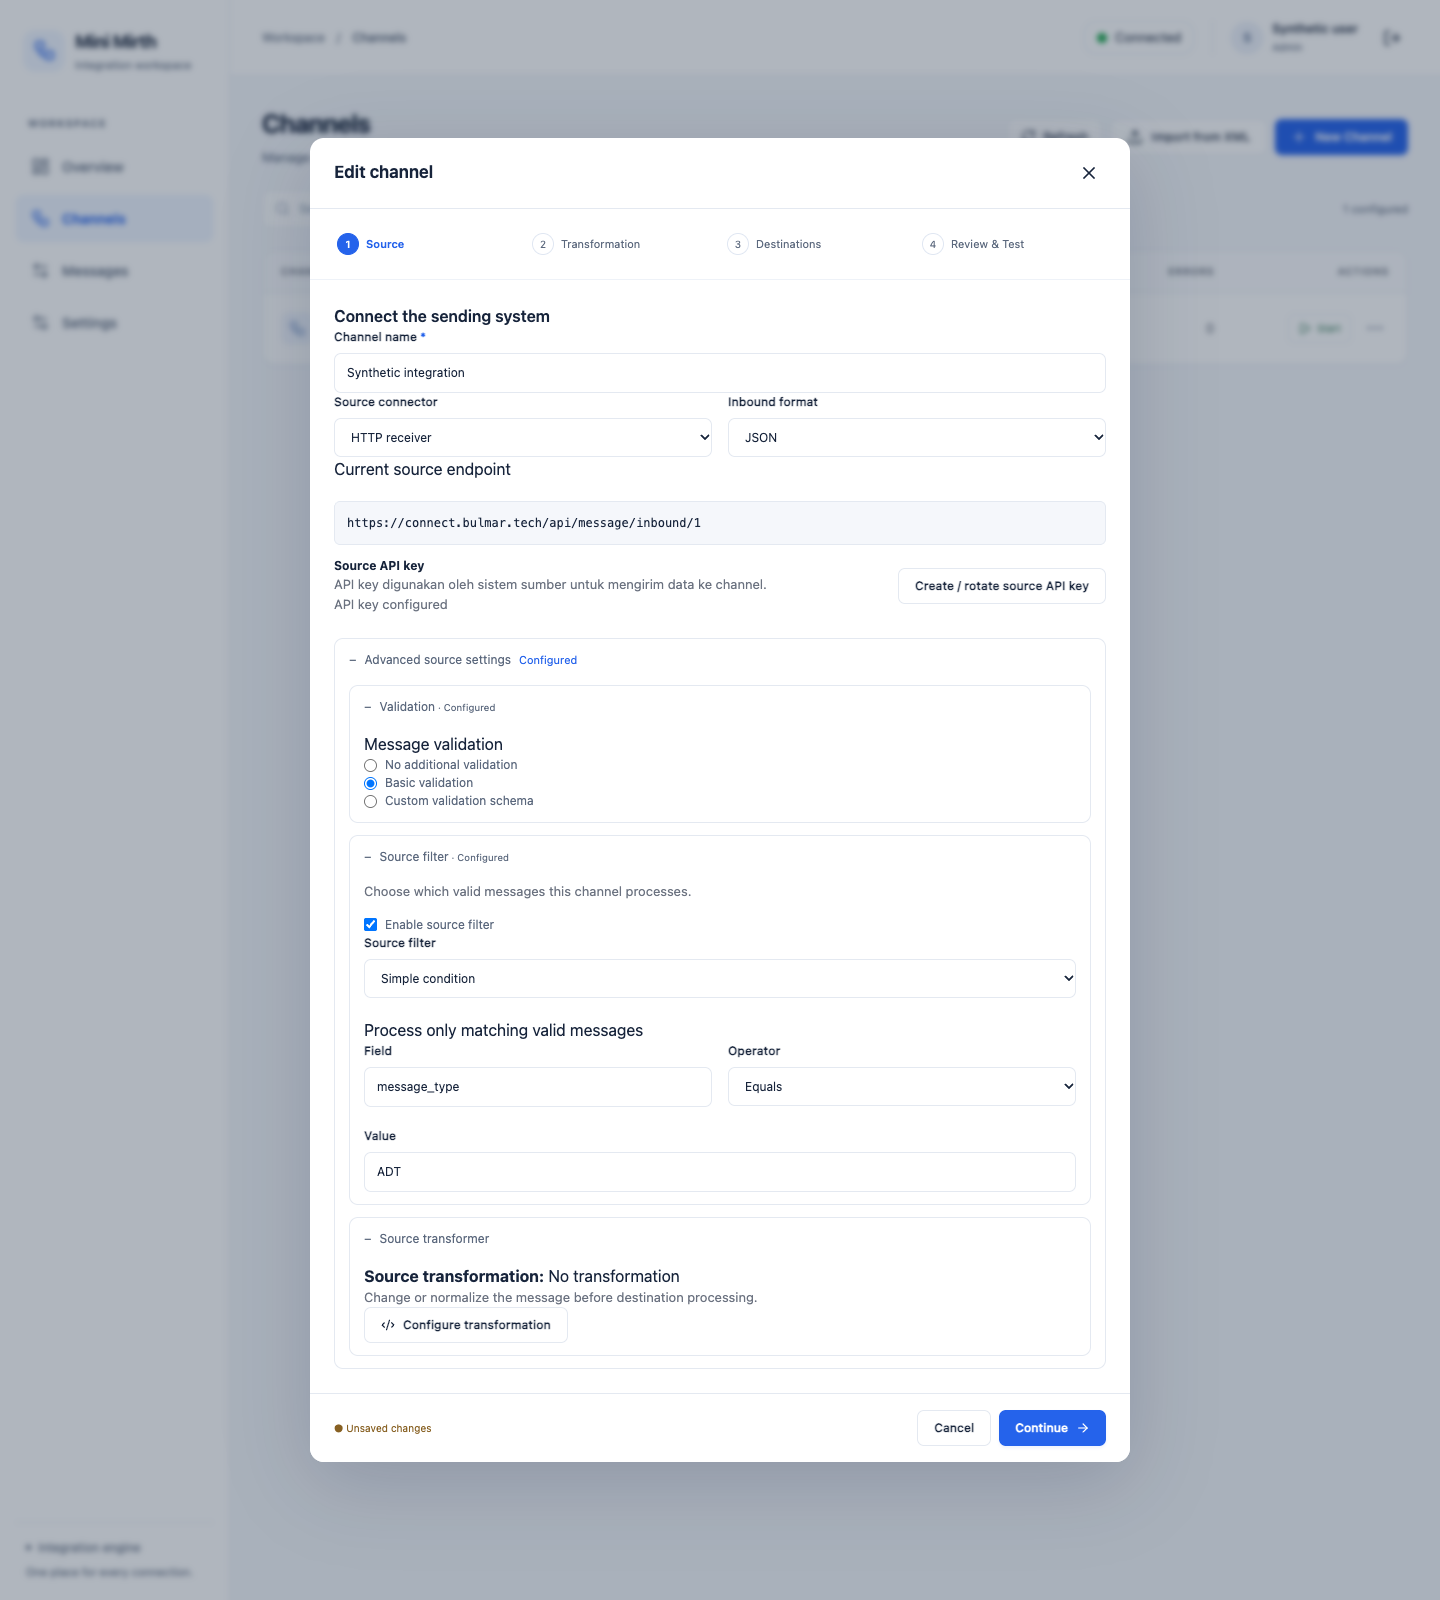
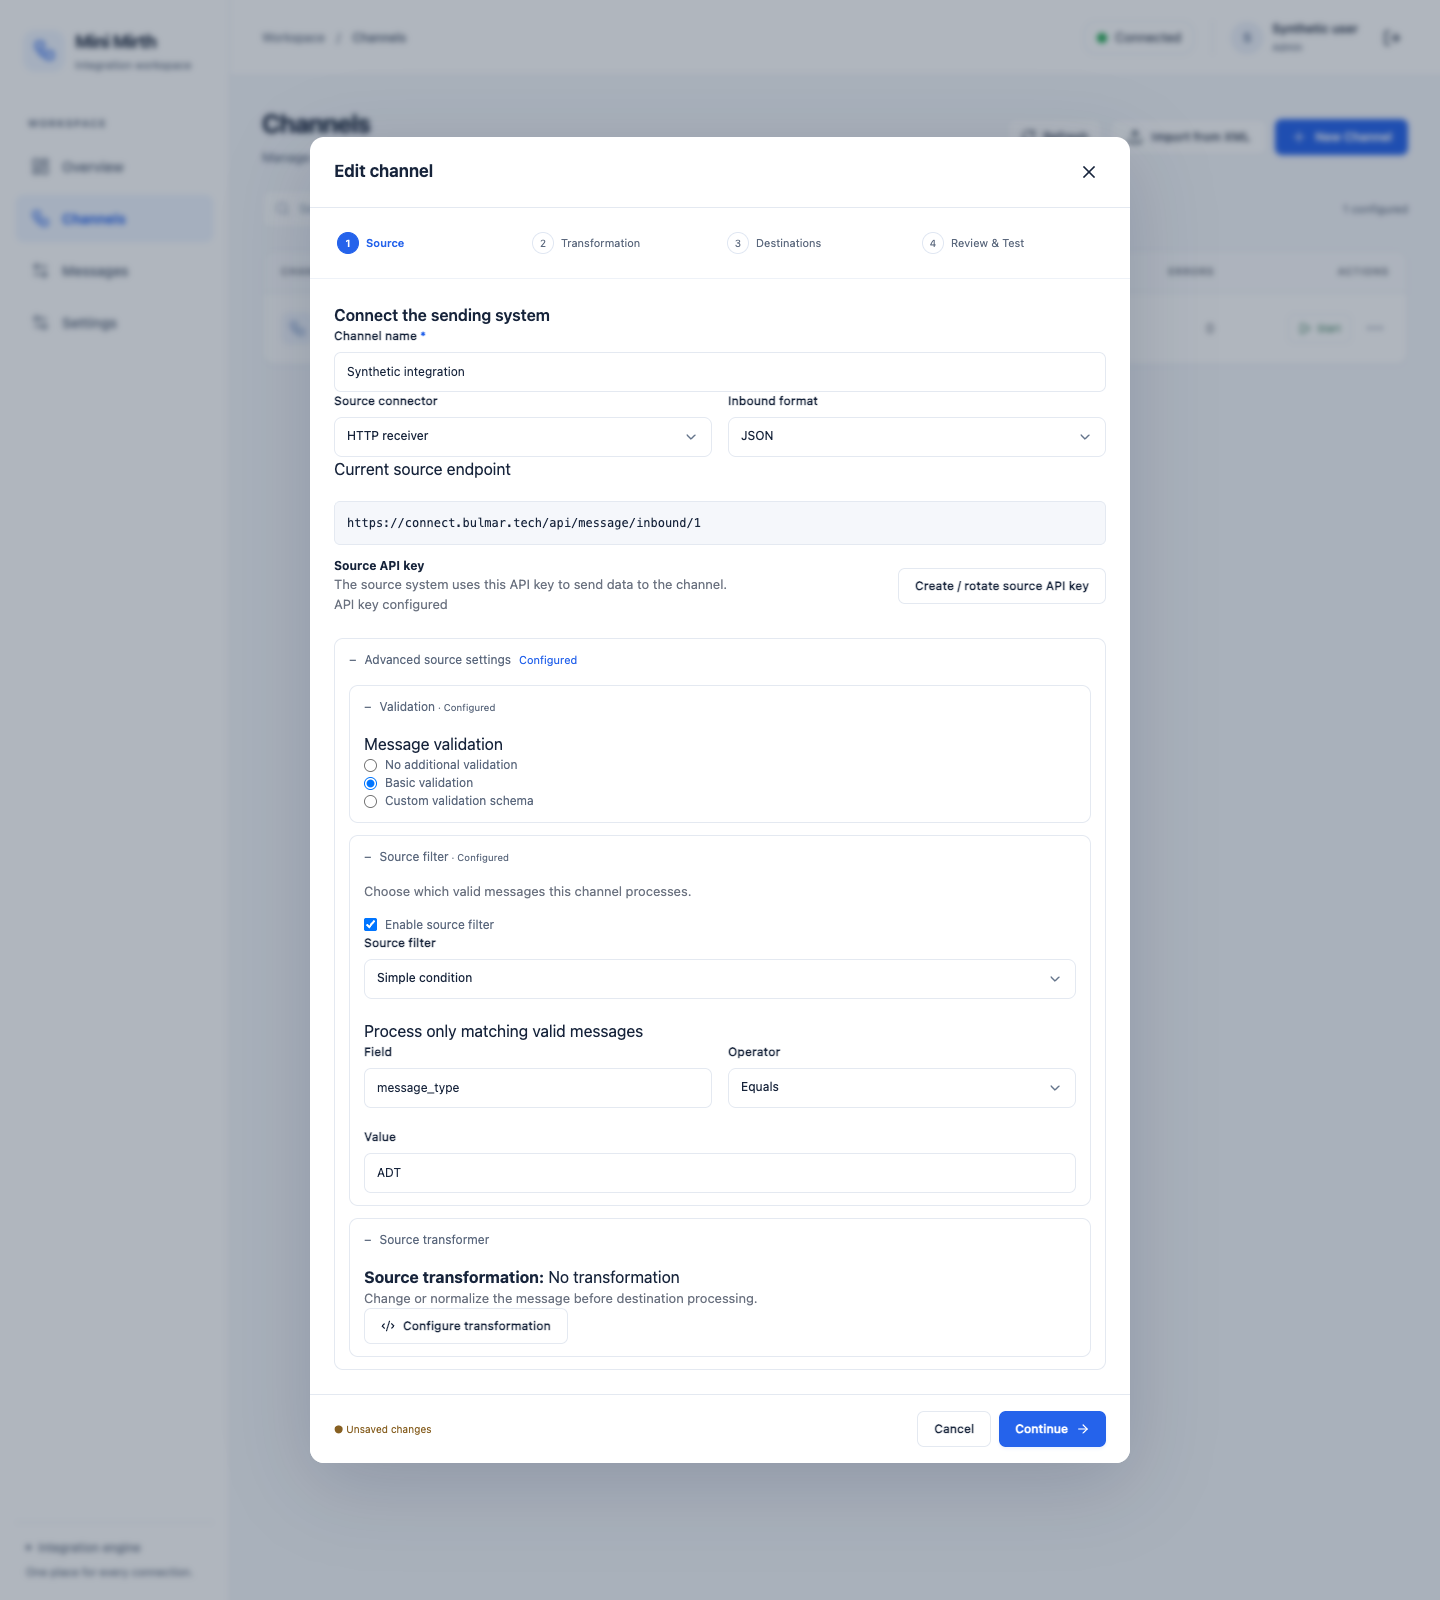
chore: standardize application interface in English

diff --git a/client/src/features/channels/ChannelTable.tsx b/client/src/features/channels/ChannelTable.tsx
@@ -137,12 +137,14 @@ function ChannelRow({
           </small>
         </td>
         <td className="numeric">
-          <strong>{(channel.received ?? 0).toLocaleString()}</strong>
-          <small className="table-subtext">{(channel.sent ?? 0).toLocaleString()} sent</small>
+          <strong>{(channel.received ?? 0).toLocaleString('en-US')}</strong>
+          <small className="table-subtext">
+            {(channel.sent ?? 0).toLocaleString('en-US')} sent
+          </small>
         </td>
         <td className="numeric">
           <span className={(channel.errors ?? 0) > 0 ? 'error-count' : 'muted'}>
-            {(channel.errors ?? 0).toLocaleString()}
+            {(channel.errors ?? 0).toLocaleString('en-US')}
           </span>
         </td>
         <td>

diff --git a/client/src/features/settings/SessionPanel.tsx b/client/src/features/settings/SessionPanel.tsx
@@ -42,8 +42,8 @@ export function SessionPanel() {
         sessions.map((s) => (
           <div key={s.family_id} className="review-destination">
             <span>
-              Created {new Date(s.created_at).toLocaleString()} · Expires{' '}
-              {new Date(s.expires_at).toLocaleString()} ·{' '}
+              Created {new Date(s.created_at).toLocaleString('en-US')} · Expires{' '}
+              {new Date(s.expires_at).toLocaleString('en-US')} ·{' '}
               {s.revoked
                 ? 'Revoked'
                 : new Date(s.expires_at).getTime() <= Date.now()

diff --git a/client/src/features/channels/ChannelForm.tsx b/client/src/features/channels/ChannelForm.tsx
@@ -498,7 +498,7 @@ export default function ChannelForm({ isOpen, onClose, onSubmit, initialData, se
                     <div>
                       <strong>Source API key</strong>
                       <p className="muted">
-                        API key digunakan oleh sistem sumber untuk mengirim data ke channel.
+                        The source system uses this API key to send data to the channel.
                       </p>
                       <p className="muted">
                         {!initialData

diff --git a/client/src/features/settings/AlertPanel.tsx b/client/src/features/settings/AlertPanel.tsx
@@ -36,7 +36,7 @@ export function AlertPanel() {
         rows.map((row) => (
           <div className="review-destination" key={row.code}>
             <span>
-              {row.code} · {row.state} · {new Date(row.first_seen_at).toLocaleString()}
+              {row.code} · {row.state} · {new Date(row.first_seen_at).toLocaleString('en-US')}
             </span>
             <Button
               variant="secondary"

diff --git a/client/src/features/overview/OverviewPage.tsx b/client/src/features/overview/OverviewPage.tsx
@@ -114,7 +114,7 @@ export default function OverviewPage({ onNavigate }: Props) {
               <span>{label}</span>
               <Icon size={18} />
             </div>
-            <strong>{value === undefined ? '—' : value.toLocaleString()}</strong>
+            <strong>{value === undefined ? '—' : value.toLocaleString('en-US')}</strong>
             <small>{caption}</small>
           </button>
         ))}

diff --git a/client/src/features/monitor/MonitorPage.tsx b/client/src/features/monitor/MonitorPage.tsx
@@ -384,7 +384,7 @@ export default function MonitorView({ initialFilters = {} }: Props) {
         )}
         <div className="pagination">
           <span>
-            {total.toLocaleString()} messages{' '}
+            {total.toLocaleString('en-US')} messages{' '}
             <span className="muted">
               · Page {page} of {Math.max(1, Math.ceil(total / 50))}
             </span>

diff --git a/client/src/components/ui/OperationalUI.tsx b/client/src/components/ui/OperationalUI.tsx
@@ -124,7 +124,7 @@ export function formatTime(value?: string) {
   const date = new Date(value);
   return Number.isNaN(date.getTime())
     ? '—'
-    : date.toLocaleString(undefined, {
+    : date.toLocaleString('en-US', {
         month: 'short',
         day: 'numeric',
         hour: '2-digit',

diff --git a/client/src/services/api.ts b/client/src/services/api.ts
@@ -48,7 +48,7 @@ export const api = axios.create({
 
 /**
  * REQUEST INTERCEPTOR
- * - Tambahkan Bearer Token otomatis
+ * - Attach the in-memory access token.
  */
 api.interceptors.request.use(
   (config) => {

diff --git a/CHANGELOG.md b/CHANGELOG.md
@@ -1,5 +1,11 @@
 # Changelog
 
+## English application interface — 2026-10-16
+
+- Translate the remaining Indonesian source API-key helper into English and review application-authored UI/backend messages for mixed-language text.
+- Use explicit en-US formatting for displayed dates, session/alert timestamps and message counters. Keep the browser's local timezone and existing stored values.
+- Verify client build, workspace typecheck, lint, format and 57 browser scenarios. A synthetic browser check using id-ID also confirms English helper text, month names and number separators. Refresh the two source-editor screenshots. Initial formatting and screenshot-filter issues were corrected and their commands rerun successfully.
+
 ## Consistent dropdowns — 2026-10-16
 
 - Standardize dropdown sizing, padding, chevrons, focus/disabled states and selected options across filters, channel forms, Messages and Settings. Supported browsers use an anchored, scrollable native picker; other browsers retain the system picker.
